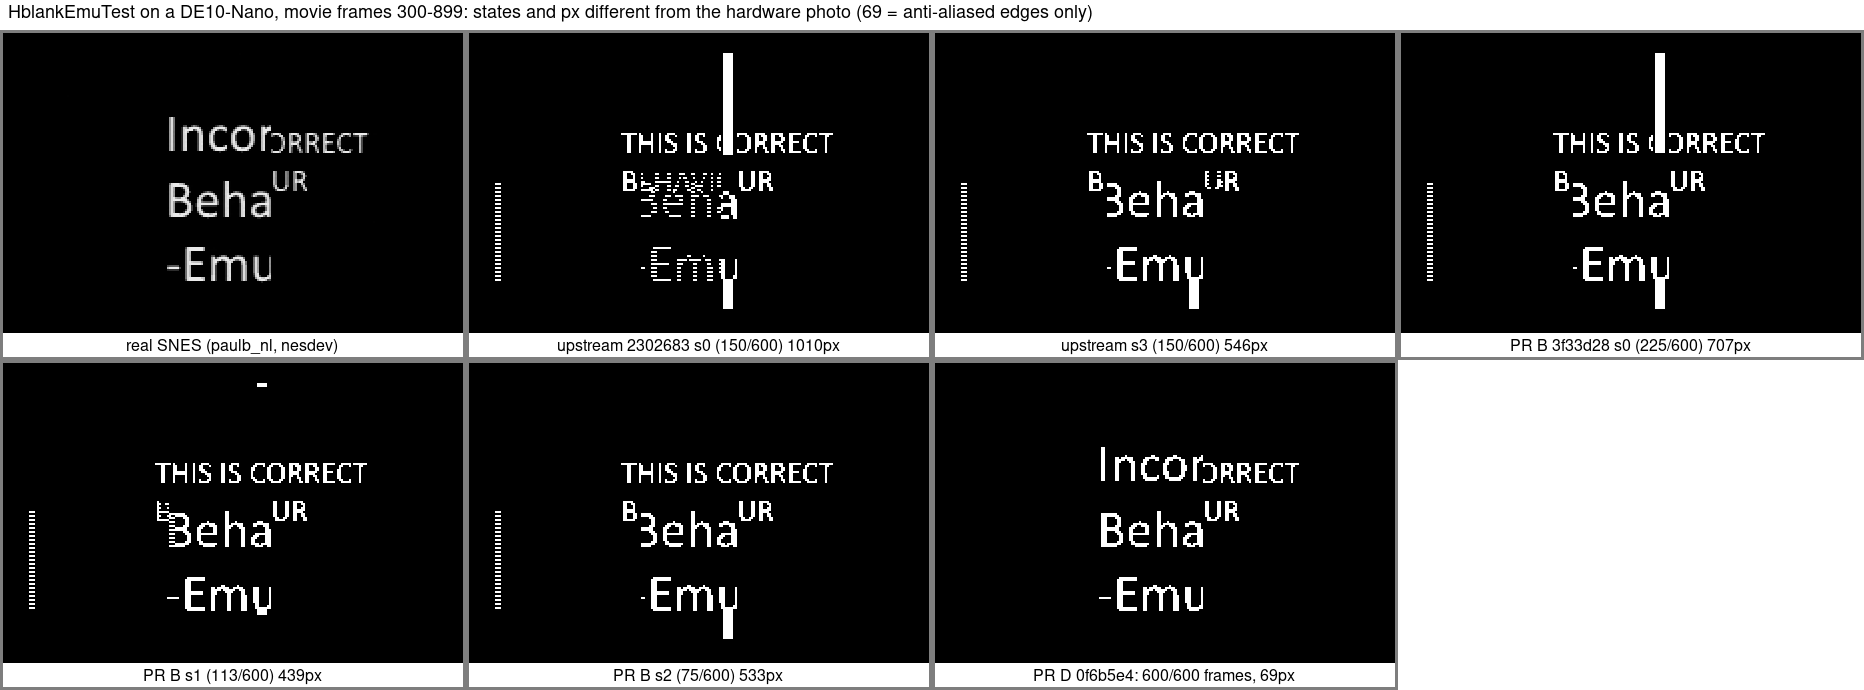
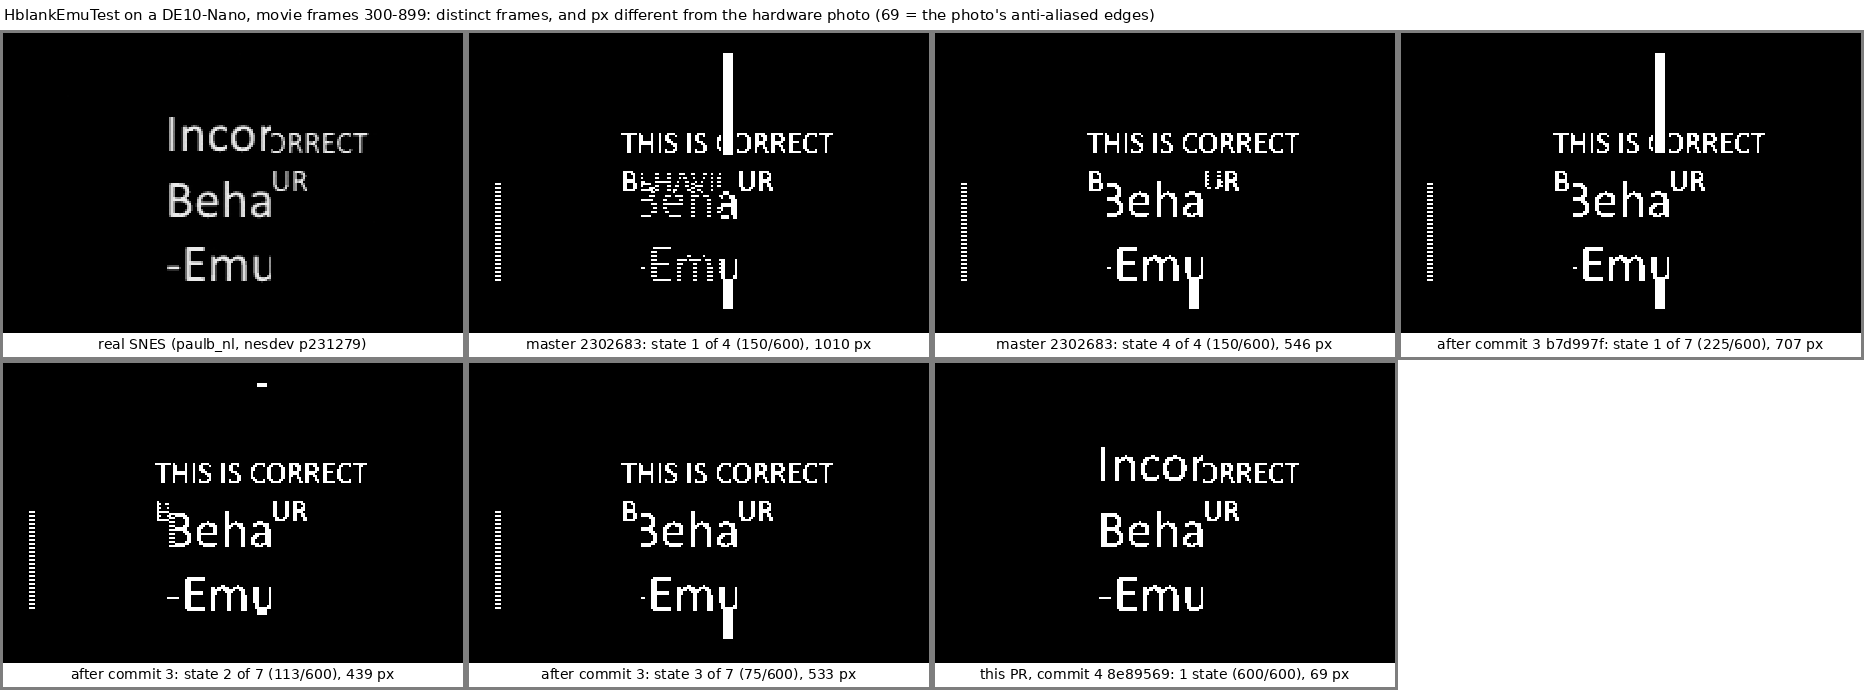
Evidence: HblankEmuTest panels and clip labelled with the stack commits
Claude-Session: https://claude.ai/code/session_01NAEexKo34YPh6NzCDqxXwu

diff --git a/ab/D/hblankemu/README.md b/ab/D/hblankemu/README.md
@@ -1,4 +1,4 @@
-# HblankEmuTest (Motive), sprite side: PR D
+# HblankEmuTest (Motive), sprite side: commit 4 of `ppu-timing-stack`
 
 - **ROM:** `HblankEmuTest.sfc` from the higan test-ROM collection
   ([gitlab.com/higan/snes-test-roms](https://gitlab.com/higan/snes-test-roms), `Motive-test-ROMs/`).
@@ -7,12 +7,12 @@
 - **Hardware:** paulb_nl's photo on nesdev ([post](https://forums.nesdev.org/viewtopic.php?p=231279#p231279), imgur `bpuXsI4`,
   the same on all four of his consoles; creaothceann's SFC agrees). The copy is `../../../hblankemu/hardware-paulb_nl-bpuXsI4.png`.
   `hardware-aligned.pgm` is that photo scaled to 256x224 and aligned to the core's frame.
-- **Core:** PR D `0f6b5e4`, one commit on PR B `3f33d28`, built as the other packs. sha256
+- **Core:** commit 4 `8e89569` (tested as `0f6b5e4`, the same tree), on commit 3 `b7d997f` (= `3f33d28`), built as the other packs. sha256
[1 lines of base64/hex data omitted]
 - **Slack at the `.qsf` seed:** worst setup -0.212 ns, on one path only: `sdram|rbuf[8]` to the CPU's `P[1]`, at the
-  slow 100C corner. That path is outside the PPU. Seedy is pending.
+  slow 100C corner. That path is outside the PPU. MiSTer Seedy, 30 seeds vs master: 4/30 close (master 8/30); seed 14 meets (+0.103 ns).
 
-| | hardware | upstream 2302683 | PR B (A+B) 3f33d28 | PR D 0f6b5e4 |
+| | hardware | master 2302683 | after commit 3 (b7d997f) | commit 4 (8e89569) |
 |---|---|---|---|---|
 | distinct frames (thresholded), movie frames 300-899 | 1 | 4 | 7 | **1** (also 1 over frames 30-899) |
 | px different from the photo, per state | — | 546-1010 | 428-707 | **69** |
@@ -25,10 +25,10 @@ The 1-chip consoles also show a purple bar at the left of the picture (paulb_nl,
 ROM writing $FF to $2100 (koitsu's analysis in the thread). That is a separate 1-chip PPU2 effect. It is not modelled
 here and is out of scope.
 
-- `ab.png`: hardware | upstream (2 of 4 states) | PR B (3 of 7 states) | PR D. The labels give the frame counts and the
+- `ab.png`: hardware | master (2 of 4 states) | after commit 3 (3 of 7 states) | commit 4. The labels give the frame counts and the
   px scores.
-- `ab.mp4`: PR B (top) and PR D (bottom), movie frames 280-400.
-- `hashes/`: hash logs of PR D, PR B (3f33d28) and upstream (2302683). The upstream and PR B rows of the table come from those recordings.
+- `ab.mp4`: after commit 3 (top) and commit 4 (bottom), movie frames 280-400.
+- `hashes/`: hash logs of commit 4 (0f6b5e4), commit 3 (3f33d28) and master (2302683). The master and commit 3 columns of the table come from those recordings.
 - `score_rec.py <recdir> <label> [f0 f1]`: groups a recording's frames into states and scores each one against
   `hardware-aligned.pgm`.
 
